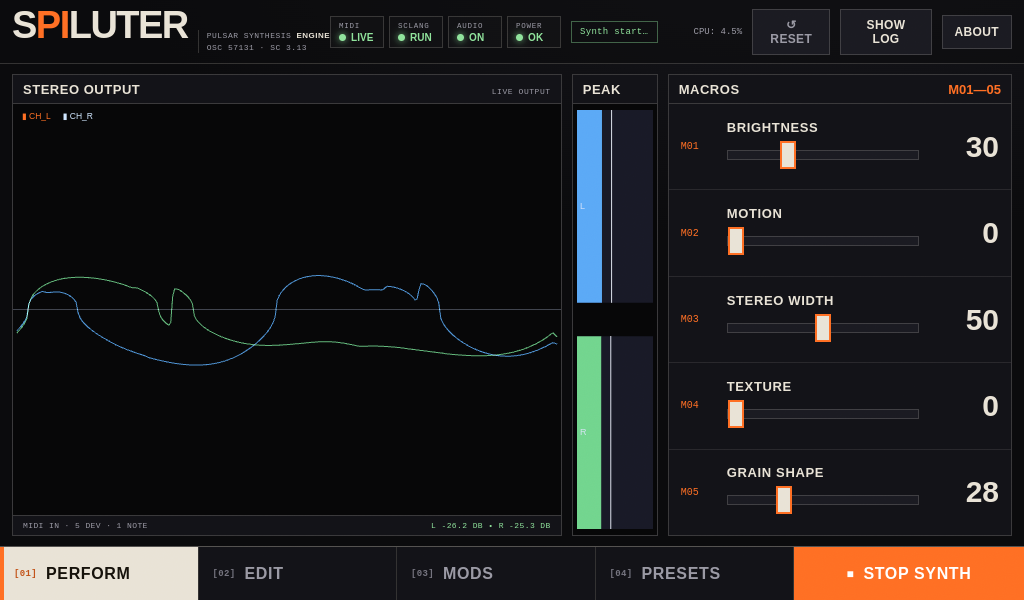
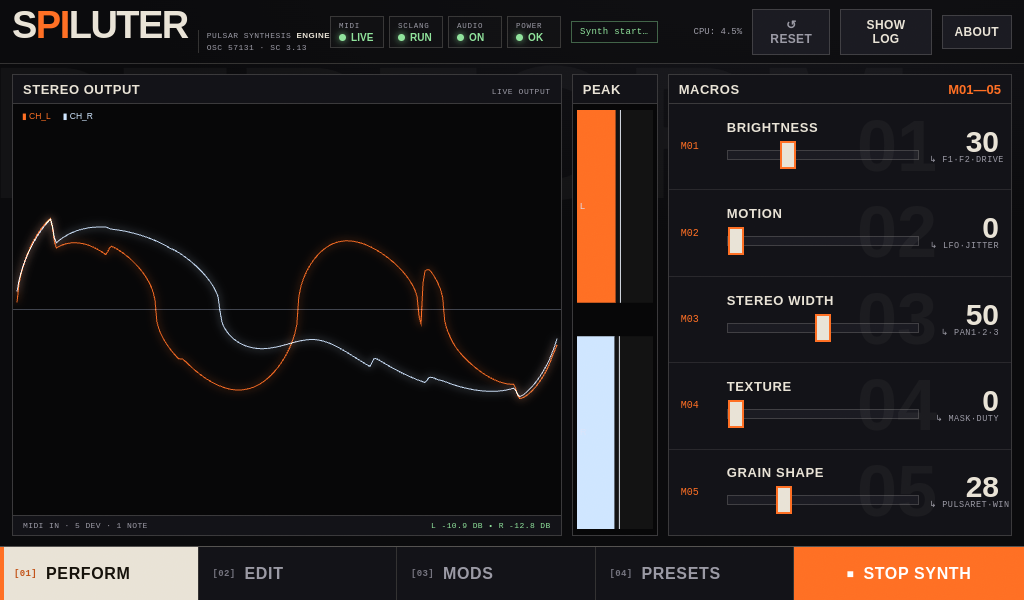
Match Perform scope/peak palette and add background detail to mockup
- Stereo Output scope: CH_L now shock orange (#ff6f24), CH_R ice
  (#cfe6ff), both with an 8px glow, matching the 01_perform mockup.
- Stereo peak meter lanes recoloured L=orange / R=ice with a neutral
  paper-tint empty-lane background.
- Perform page: add the faint giant "PERFORM" ghost headline and the
  large ghost macro numbers (01-05) behind each macro lane.
- Macros: add mono-font descriptor sub-labels under each value
  (F1·F2·DRIVE, LFO·JITTER, PAN1·2·3, MASK·DUTY, PULSARET·WIN);
  initMacros now updates only the numeric text node so the descriptor
  survives live value updates.

Refresh updated_designs/pi_new_ui/01_perform.png from the deployed build.

diff --git a/renderer/index.html b/renderer/index.html
@@ -35,6 +35,7 @@
 
       <!-- ===== PERFORM ===== -->
       <section class="main-screen active" data-screen="perform" aria-label="Perform screen">
+        <div class="perform-ghost" aria-hidden="true">PERFORM</div>
         <div class="perform-row">
 
           <div class="panel scope-card">
@@ -57,21 +58,21 @@
           <div class="panel macros-card">
             <div class="ph"><span class="t">Macros</span><span class="num">M01—05</span></div>
             <div class="macros">
-              <div class="mlane"><span class="ix">M01</span>
+              <div class="mlane"><span class="bn" aria-hidden="true">01</span><span class="ix">M01</span>
                 <div><div class="nm">Brightness</div><input class="macro-slider" id="macroBrightness" type="range" min="0" max="1" step="0.01" value="0.3" /></div>
-                <div class="val" id="macroBrightnessVal">30</div></div>
-              <div class="mlane"><span class="ix">M02</span>
+                <div class="val" id="macroBrightnessVal">30<small>↳ F1·F2·DRIVE</small></div></div>
+              <div class="mlane"><span class="bn" aria-hidden="true">02</span><span class="ix">M02</span>
                 <div><div class="nm">Motion</div><input class="macro-slider" id="macroMotion" type="range" min="0" max="1" step="0.01" value="0" /></div>
-                <div class="val" id="macroMotionVal">0</div></div>
-              <div class="mlane"><span class="ix">M03</span>
+                <div class="val" id="macroMotionVal">0<small>↳ LFO·JITTER</small></div></div>
+              <div class="mlane"><span class="bn" aria-hidden="true">03</span><span class="ix">M03</span>
                 <div><div class="nm">Stereo Width</div><input class="macro-slider" id="macroWidth" type="range" min="0" max="1" step="0.01" value="0.5" /></div>
-                <div class="val" id="macroWidthVal">50</div></div>
-              <div class="mlane"><span class="ix">M04</span>
+                <div class="val" id="macroWidthVal">50<small>↳ PAN1·2·3</small></div></div>
+              <div class="mlane"><span class="bn" aria-hidden="true">04</span><span class="ix">M04</span>
                 <div><div class="nm">Texture</div><input class="macro-slider" id="macroTexture" type="range" min="0" max="1" step="0.01" value="0" /></div>
-                <div class="val" id="macroTextureVal">0</div></div>
-              <div class="mlane"><span class="ix">M05</span>
+                <div class="val" id="macroTextureVal">0<small>↳ MASK·DUTY</small></div></div>
+              <div class="mlane"><span class="bn" aria-hidden="true">05</span><span class="ix">M05</span>
                 <div><div class="nm">Grain Shape</div><input class="macro-slider" id="macroShape" type="range" min="0" max="1" step="0.01" value="0.28" /></div>
-                <div class="val" id="macroShapeVal">28</div></div>
+                <div class="val" id="macroShapeVal">28<small>↳ PULSARET·WIN</small></div></div>
             </div>
           </div>
 

diff --git a/renderer/renderer.js b/renderer/renderer.js
@@ -639,6 +639,8 @@ function drawScopeTrace(ctx, values, metrics, color) {
   };
   ctx.lineWidth = Math.max(1, dpr);
   ctx.strokeStyle = color;
+  ctx.shadowColor = color;
+  ctx.shadowBlur = 8 * dpr;
   ctx.beginPath();
   const samples = Math.max(48, Math.floor(drawWidth / 2));
   for (let i = 0; i <= samples; i += 1) {
@@ -651,6 +653,7 @@ function drawScopeTrace(ctx, values, metrics, color) {
     else ctx.lineTo(x, y);
   }
   ctx.stroke();
+  ctx.shadowBlur = 0;
 }
 
 function drawOutputScope(canvas, left, right = null) {
@@ -686,9 +689,9 @@ function drawOutputScope(canvas, left, right = null) {
   const prevAlpha = ctx.globalAlpha;
   ctx.globalCompositeOperation = "lighter";
   ctx.globalAlpha = 0.85;
-  drawScopeTrace(ctx, left, metrics, "rgb(91, 169, 246)");
+  drawScopeTrace(ctx, left, metrics, "#ff6f24");
   if (right && right.length > 0) {
-    drawScopeTrace(ctx, right, metrics, "rgb(114, 213, 142)");
+    drawScopeTrace(ctx, right, metrics, "#cfe6ff");
   }
   ctx.globalAlpha = prevAlpha;
   ctx.globalCompositeOperation = prevComposite;
@@ -766,7 +769,7 @@ function drawStereoPeakMeter(canvas) {
   const laneY = [topPad, topPad + laneHeight + laneGap];
   const levels = [stereoPeakDisplayL, stereoPeakDisplayR];
   const holds = [stereoPeakHoldL, stereoPeakHoldR];
-  const laneColors = ["rgb(91, 169, 246)", "rgb(114, 213, 142)"];
+  const laneColors = ["#ff6f24", "#cfe6ff"];
   const labels = ["L", "R"];
 
   for (let i = 0; i < 2; i += 1) {
@@ -775,7 +778,7 @@ function drawStereoPeakMeter(canvas) {
     const hold = clamp(holds[i], 0, 1);
     const fillW = level * usableWidth;
 
-    ctx.fillStyle = "rgba(52, 55, 84, 0.4)";
+    ctx.fillStyle = "rgba(233, 227, 214, 0.05)";
     ctx.fillRect(leftPad, y, usableWidth, laneHeight);
 
     ctx.fillStyle = laneColors[i];
@@ -3299,7 +3302,14 @@ function initMacros() {
     const valEl = document.getElementById(`${id}Val`);
     const apply = () => {
       const frac = clamp(Number(slider.value), 0, 1);
-      if (valEl) valEl.textContent = String(Math.round(frac * 100));
+      if (valEl) {
+        const num = String(Math.round(frac * 100));
+        if (valEl.firstChild && valEl.firstChild.nodeType === 3) {
+          valEl.firstChild.nodeValue = num;
+        } else {
+          valEl.insertBefore(document.createTextNode(num), valEl.firstChild);
+        }
+      }
       MACRO_TARGETS[id].forEach(([param, lo, hi]) => {
         setParamValue(param, lo + ((hi - lo) * frac), true);
       });

diff --git a/renderer/styles.css b/renderer/styles.css
@@ -120,7 +120,11 @@ header{
 .ph .num{ font-family:var(--dinc); font-weight:700; font-size:13px; color:var(--shock); }
 
 /* ── PERFORM ── */
-.perform-row{ flex:1; min-height:0; display:flex; gap:10px; }
+.perform-ghost{ position:absolute; left:-12px; top:-6px; z-index:0; pointer-events:none;
+  font-family:var(--dinc); font-weight:700; font-size:190px; line-height:.78;
+  letter-spacing:-.02em; text-transform:uppercase; white-space:nowrap;
+  color:rgba(233,227,214,.035); }
+.perform-row{ flex:1; min-height:0; display:flex; gap:10px; z-index:1; }
 .scope-card{ flex:1.6; }
 .scope-wrap{ position:relative; flex:1; min-height:0; background:#070708; }
 .scope-wrap canvas{ display:block; width:100%; height:100%; }
@@ -143,11 +147,17 @@ header{
   grid-template-columns:36px 1fr 70px; align-items:center; gap:10px;
   padding:0 12px; border-bottom:1px solid var(--line); overflow:hidden; }
 .mlane:last-child{ border-bottom:none; }
+.mlane .bn{ position:absolute; right:74px; top:50%; transform:translateY(-52%);
+  font-family:var(--dinc); font-weight:700; font-size:72px; line-height:1;
+  color:rgba(233,227,214,.045); pointer-events:none; }
 .mlane .ix{ font-family:var(--mono); font-size:10px; color:var(--shock); }
 .mlane .nm{ font-family:var(--din); font-weight:700; font-size:13px;
   letter-spacing:.05em; text-transform:uppercase; margin-bottom:5px; }
 .mlane .val{ font-family:var(--dinc); font-weight:700; font-size:30px;
   text-align:right; line-height:.8; color:var(--paper); }
+.mlane .val small{ display:block; font-family:var(--mono); font-size:8.5px;
+  font-weight:400; color:var(--mute-2); letter-spacing:.06em; margin-top:3px;
+  white-space:nowrap; }
 
 /* ── EDIT ── */
 .edit-grid{ flex:1; min-height:0; overflow-y:auto; display:grid; grid-auto-rows:max-content;
